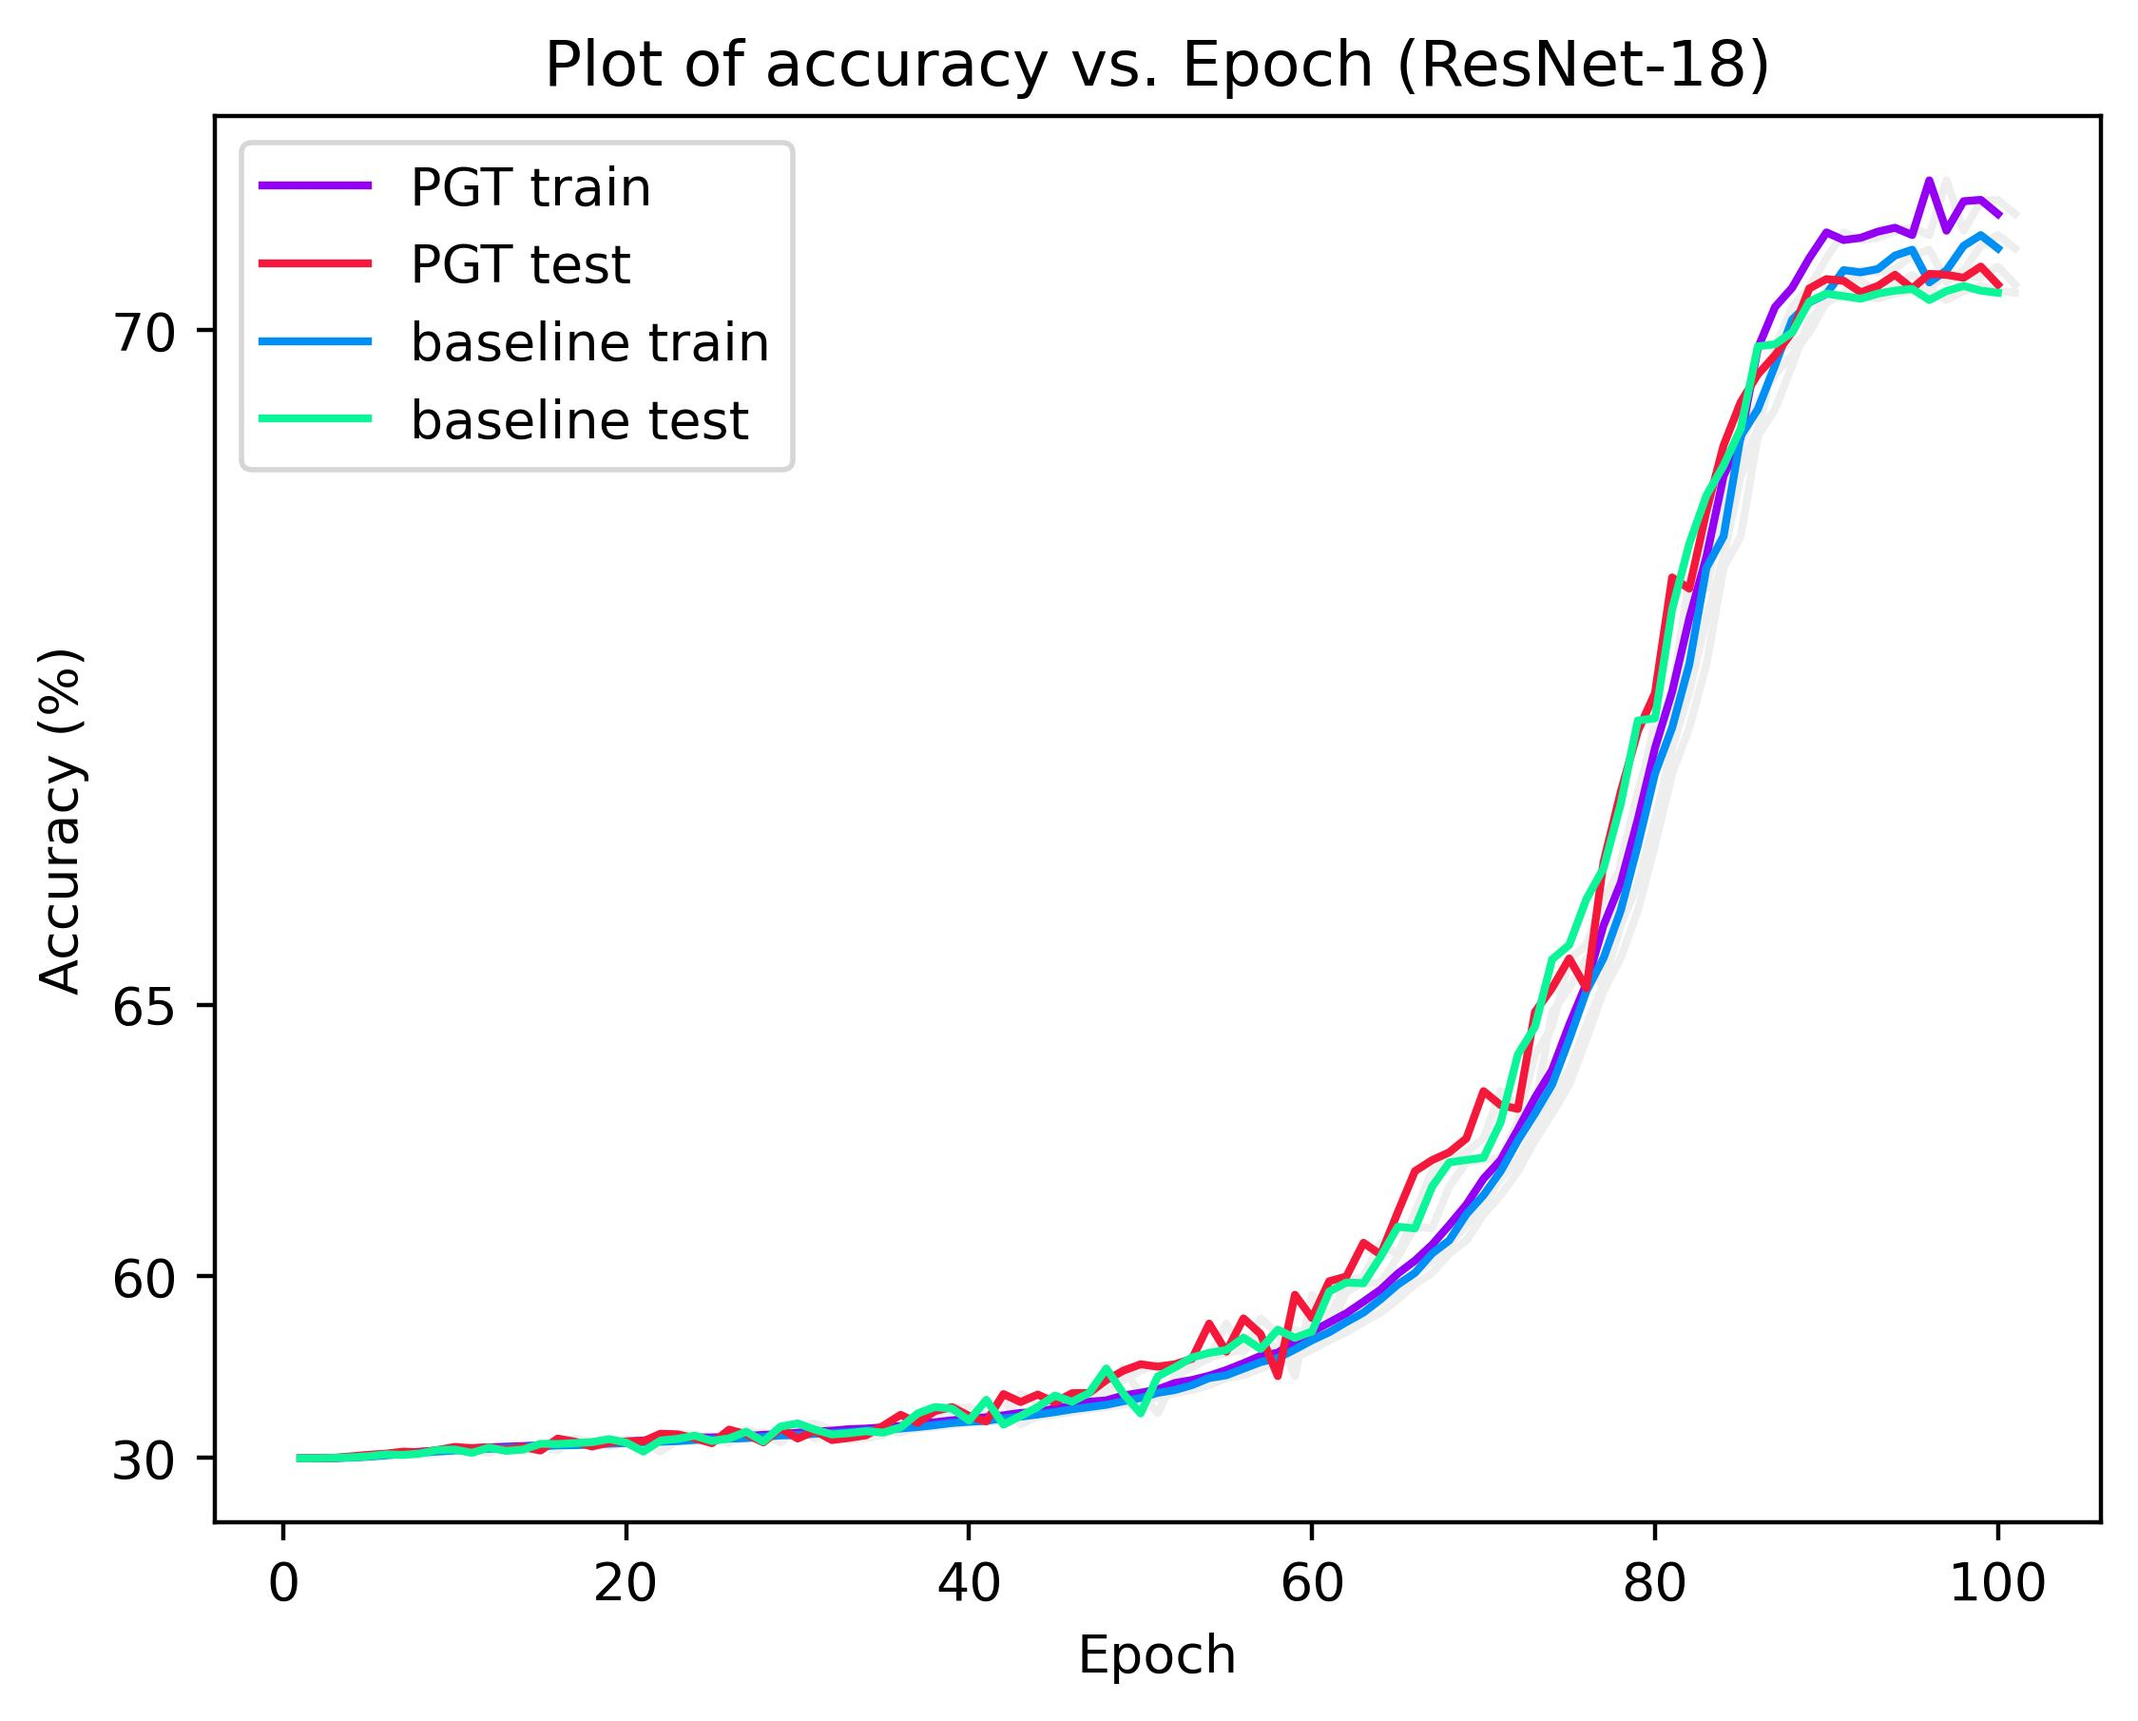
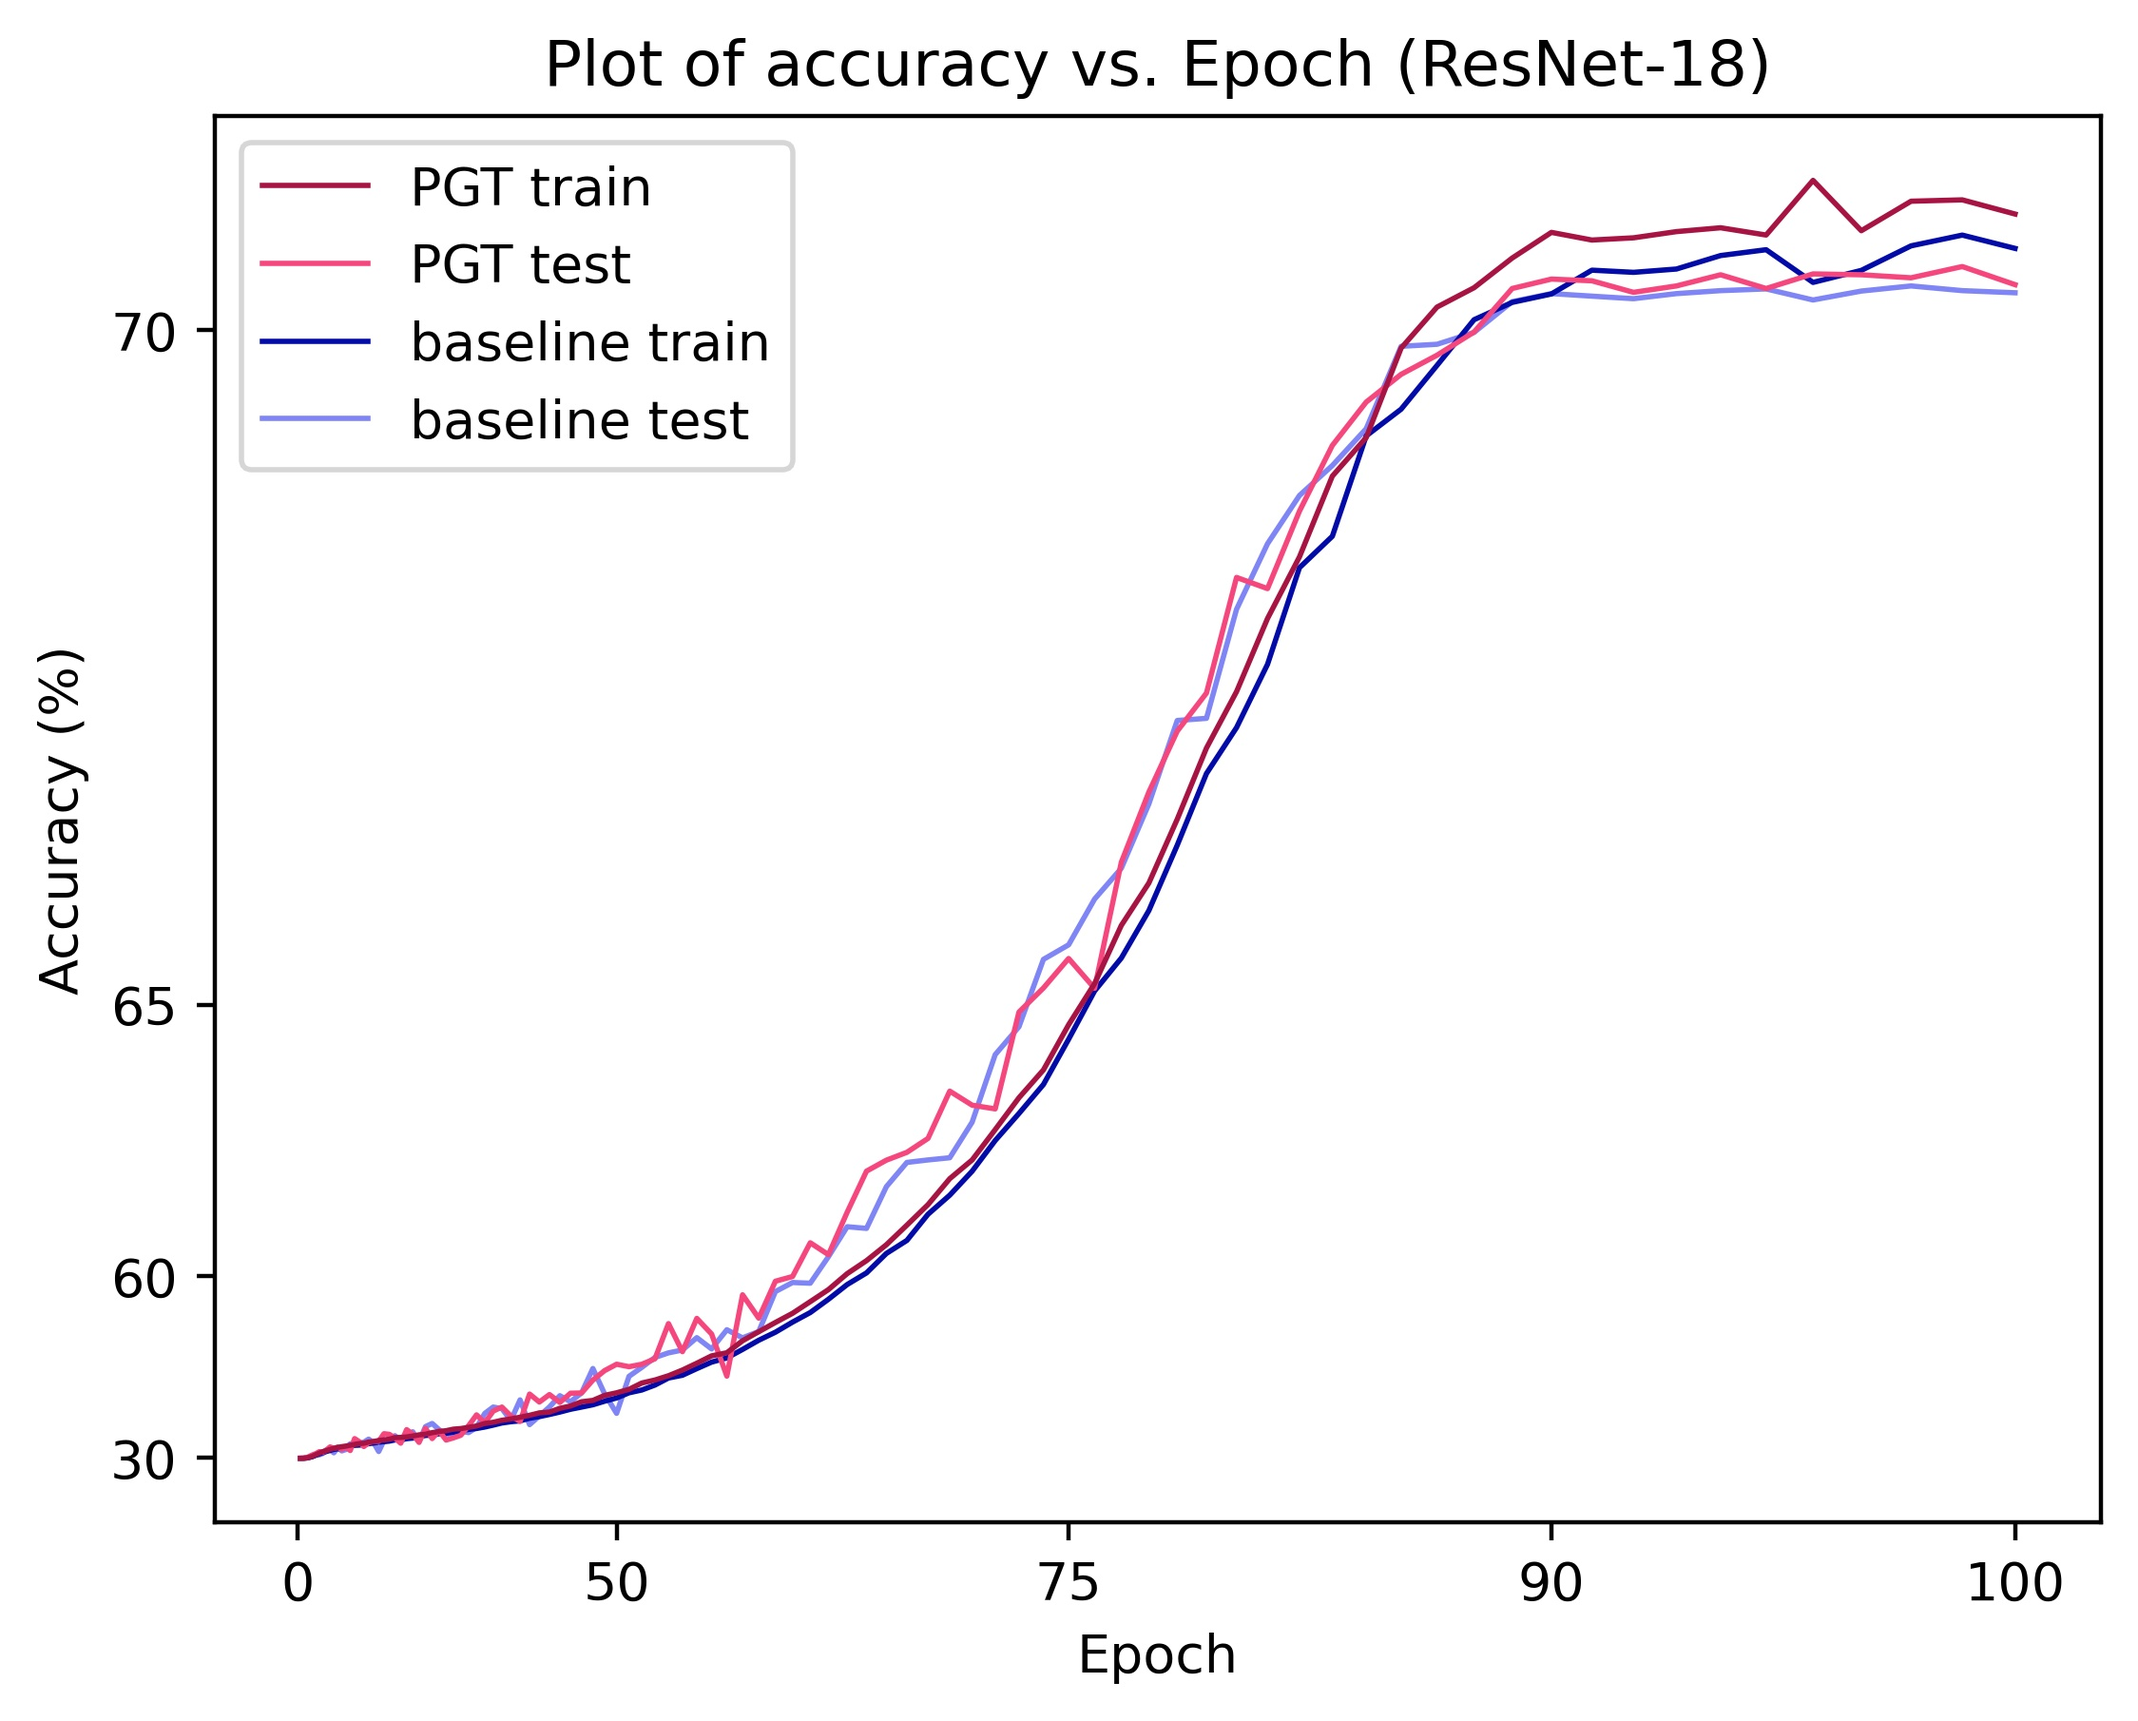
Mod7

diff --git a/paper.tex b/paper.tex
@@ -976,7 +976,7 @@ incorrect class logits increases due to PGT and this leads to better class separ
 \caption{ Log-linear plots of training and test accuracies and comparison with baseline
 of batch-normalized variants: \textbf{(a)} ResNet-18 ($\alpha=0.25$), \textbf{(b)}
 ResNet-50 ($\alpha=0.3$). For better visualization of accuracies obtained in the final
-iterations, we plot the y-axis in log scale. PowerGrad Transform improves upon the
+iterations, we plot both axes in log scale. PowerGrad Transform improves upon the
 baseline in all cases. The corresponding accuracies are mentioned in table
 \ref{tab:imagenet_table}. }
 \label{fig:metrics}
@@ -1080,7 +1080,7 @@ in training accuracies across all cases is because the networks train better and
 at better optimas during convergence. Per epoch training and test accuracy plots of
 ResNet-18 and ResNet-50 (both with and without PGT) are shown in Fig.
 \ref{fig:metrics}(a, b). For better visualization of the top end of the plots, we scale
-the y-axis in log scale. Our experiments with batch-normalized networks indicate that
+both axes in log scale. Our experiments with batch-normalized networks indicate that
 PowerGrad Transform speeds up training and allows the network to learn better
 representations\footnote{Reproducible code, training recipes for the experiments,
 pretrained checkpoints and training logs are provided at: \\
@@ -1340,7 +1340,10 @@ baseline owing to the improvements in training as observed in Fig. \ref{fig:agc_
 & & & \textbf{Transform ($\alpha$)} & \textbf{Accuracy (\%)} & \textbf{Diff (\%)} &
 \textbf{Accuracy (\%)} & \textbf{Diff (\%)} \\
 \midrule
-ResNet-18 (non-BN) & 1024 & Baseline & - & 67.19 & - & 64.93 & - \\
+ResNet-18 (non-BN) & 1024 & Baseline & - & 66.27 & - & 64.816 & - \\
+& 1024 & PGT & 0.92 & \textcolor{red}{\textbf{66.62}} &
+\textcolor{olive}{\textbf{+0.35}} & \textcolor{blue}{\textbf{65.498}} &
+\textcolor{olive}{\textbf{+0.682}} \\
 \cmidrule{2-8}
 & 512 & Baseline & - & 68.02 & - & 66.552 & - \\
 & 512 & PGT & 0.25 & \textcolor{red}{\textbf{69.5}} & \textcolor{olive}{\textbf{+1.48}} &
@@ -1367,19 +1370,20 @@ ResNet-18 (non-BN) & 1024 & Baseline & - & 67.19 & - & 64.93 & - \\
 
 
 
-We provide accuracy results for different batch sizes for the non-BN ResNet-18 trained
-on ImageNet-1K and also experiment with different methods (GC, AGC, PGT along with their
-combinations). Table \ref{tab:wobn_table} shows the findings. To begin, we use a batch
-size of 1024. This is only to illustrate that in unnormalized networks, accuracy suffers
-significantly when batch sizes are large. Additionally, the training process is often
-unstable at this batch size, resulting in frequent layer dropouts (as seen in
-\ref{sec:Empi}) and infinite loss values. Thus for all subsequent tests, we use batch
-sizes of 512 and 256. At a batch size of 512, invoking PGT with $\alpha=0.25$ improves
-the training accuracy baseline by $1.48\%$ and the test accuracy baseline by $0.684\%$,
-while at a batch size of 256, the improvement in training and test accuracies are
-$1.11\%$ and $1.018\%$ respectively. In comparison, the test accuracy improvements
-obtained by GC and AGC at batch size of 256 is much less, at $0.27\%$ and $0.5\%$,
-respectively.
+We provide performance metrics on the test set of ImageNet-1K for different batch sizes
+for the non-BN ResNet-18 and also experiment with different methods (GC, AGC, PGT along
+with their combinations). Table \ref{tab:wobn_table} shows the findings. To begin, we
+use a batch size of 1024. The baseline performance for this batch size is drastically
+inferior to baselines for other batch sizes. PGT helps regain some of the lost
+performance by $0.682\%$ ($65.498\%$ vs. $64.816\%$). This illustrates that in
+unnormalized networks, accuracy suffers significantly when batch sizes are large.
+Additionally, the training process is often unstable at this batch size, resulting in
+filters and sometimes entire layers frequently zeroing out (as seen in \ref{sec:Empi}).
+At a batch size of 512, invoking PGT improves the training accuracy baseline by $1.48\%$
+and the test accuracy baseline by $0.684\%$, while at a batch size of 256, the
+improvement in training and test accuracies are $1.11\%$ and $1.018\%$ respectively. In
+comparison, the test accuracy improvements obtained by GC and AGC at batch size of 256
+is much less, at $0.27\%$ and $0.5\%$, respectively.
 
 On the training accuracy front, since we get a significant boost ($1.48\%$ at batch size
 of 512 and $1.11\%$ at batch size of 256), it leads us to infer that when PowerGrad
@@ -1502,9 +1506,9 @@ ResNet-50 & Step & \xmark & \xmark & 78.99 & 75.97 & 3.02 \\
 
 
 We conduct an ablation study to investigate the effects of PowerGrad Transform for
-different values of the PGT hyperparameter($\alpha$). Grid plots are made available in
-the supplementary section. We have previously demonstrated from the experiments depicted
-in section \ref{sec:Expe}, that PowerGrad Transform causes the network to arrive at a
+different values of the hyperparameter ($\alpha$). Grid plots are made available in the
+supplementary section. We have previously demonstrated from the experiments depicted in
+section \ref{sec:Expe}, that PowerGrad Transform causes the network to arrive at a
 better optima and fit the training dataset better than the baseline. In this ablation
 study, we use the ResNet-50 architecture and we combine our proposed method with other
 regularization techniques such as label smoothing and report our findings in table
@@ -1556,7 +1560,9 @@ smoothing.
 \bibliographystyle{model2-names}
 \bibliography{references}
 
-\newpage
+\clearpage
+
+
 
 \section{Supplementary section}
 \label{sec:Supp}
@@ -1576,13 +1582,46 @@ In PyTorch, the available method to modify gradients in the backward pass is usi
 
 
 
-\newpage \subsection{Grid search for different values of $\alpha$}
+\clearpage
+
+
+\subsection{Grid search for different values of $\alpha$}
+
+
+\begin{figure}[h]
+\centering
+\includegraphics[width=0.5\columnwidth]{r18_grid_search}
+\caption{ Grid search for various values of $\alpha$ for ResNet-18 architecture with the
+ImageNet dataset. Each datapoint is collected over a 50 epoch budget, with other
+hyperparameters kept the same as mentioned in section \ref{sec:bn}. }
+\label{fig:grid_searcha}
+\end{figure}
+
+
+\begin{figure}[h]
+\centering
+\includegraphics[width=0.5\columnwidth]{r50_grid_search}
+\caption{ Grid search for various values of $\alpha$ for ResNet-50 architecture with the
+ImageNet dataset. Each datapoint is collected over a 50 epoch budget, with other
+hyperparameters kept the same as mentioned in section \ref{sec:bn}. }
+\label{fig:grid_searchb}
+\end{figure}
+
+
+\begin{figure}[h]
+\centering
+\includegraphics[width=0.5\columnwidth]{cifar10_grid_search}
+\caption{\\ResNet-20 CIFAR-10}
+\caption{ Grid search for various values of $\alpha$ for ResNet-20 architecture with the
+CIFAR-10 dataset. Each datapoint is collected over a 360 epoch budget. }
+\label{fig:grid_searchc}
+\end{figure}
+
+\clearpage
 
 
 
-
-
-\newpage \subsection{Norm plots of weights (baseline (low batch size)) of non-BN
+\subsection{Norm plots of weights (baseline (low batch size)) of non-BN
 ResNet-18}
 \begin{figure}[h] \centering \includegraphics[width=0.55\textwidth]{baseline-w_norm}
 \caption{ Method: baseline, batch size = 256. This is a plot depicting the
@@ -1591,7 +1630,10 @@ corresponds to a layer of the unnormalized ResNet-18. Above each subplot, the la
 indices are shown. Each filter in each subplot is shown with a separate and randomly
 determined colour. } \end{figure}
 
-\newpage \subsection{Norm plots of weights (baseline (high batch size)) of non-BN
+\clearpage
+
+
+\subsection{Norm plots of weights (baseline (high batch size)) of non-BN
 ResNet-18}
 \begin{figure}[h] \centering
 \includegraphics[width=0.55\textwidth]{baseline_high_bs-w_norm} \caption{ Method:
@@ -1601,7 +1643,10 @@ corresponds to a layer of the unnormalized ResNet-18. Above each subplot, the la
 indices are shown. Each filter in each subplot is shown with a separate and randomly
 determined colour. } \end{figure}
 
-\newpage \subsection{Norm plots of weights (PGT) of non-BN ResNet-18}
+\clearpage
+
+
+\subsection{Norm plots of weights (PGT) of non-BN ResNet-18}
 \begin{figure}[h] \centering \includegraphics[width=0.55\textwidth]{pgt-w_norm}
 \caption{ Method: PGT, batch size = 256. This is a plot depicting the iteration-wise
 evolution of the norm of each filter in each layer. Each subplot corresponds to a layer
@@ -1609,7 +1654,10 @@ of the unnormalized ResNet-18. Above each subplot, the layer indices are shown. 
 filter in each subplot is shown with a separate and randomly determined colour. }
 \end{figure}
 
-\newpage \subsection{Norm plots of weights (AGC + PGT) of non-BN ResNet-18}
+\clearpage
+
+
+\subsection{Norm plots of weights (AGC + PGT) of non-BN ResNet-18}
 \begin{figure}[h] \centering \includegraphics[width=0.55\textwidth]{agc_pgt-w_norm}
 \caption{ Method: AGC + PGT, batch size = 256. This is a plot depicting the
 iteration-wise evolution of the norm of each filter in each layer. Each subplot
@@ -1619,7 +1667,10 @@ determined colour. } \end{figure}
 
 
 
-\newpage \subsection{ResNet-18 Layer Index Diagram}
+\clearpage
+
+
+\subsection{ResNet-18 Layer Index Diagram}
 
 For the layer indices used in figures Fig. \ref{fig:norm_plots}, \ref{fig:high_bs},
 \ref{fig:agc_pgt}, we provide a block diagram depicting the different convolutional
